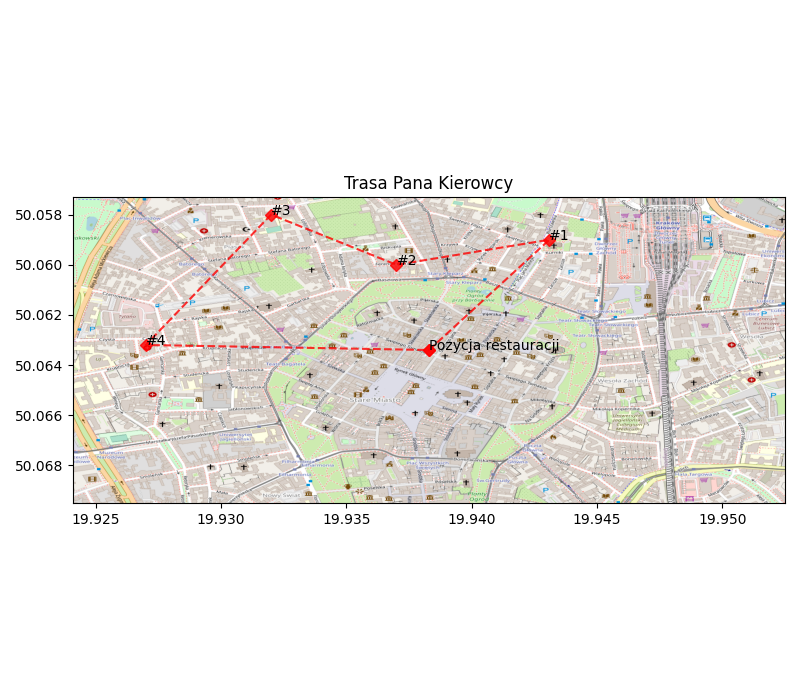
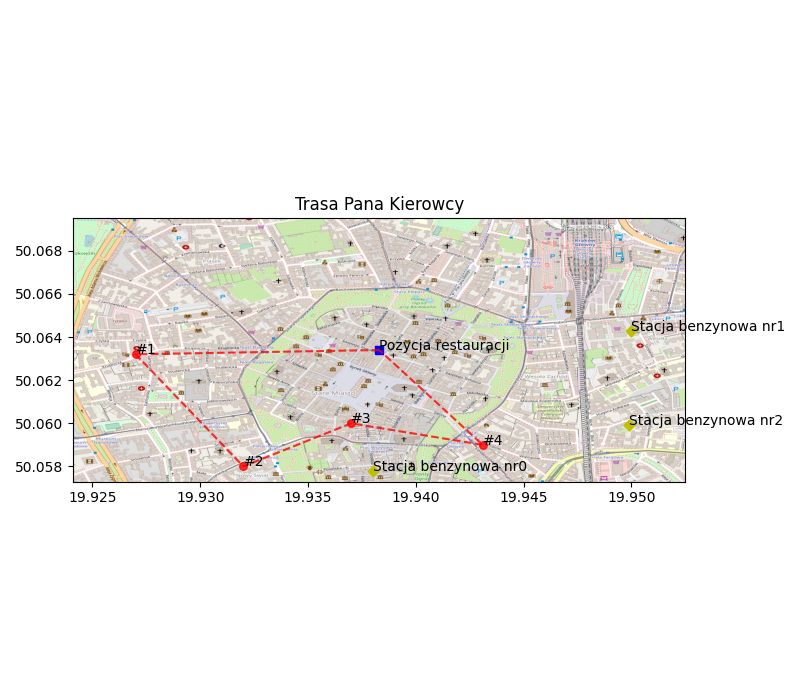
Optimized algorithm with Jacek's help

Changed region(s): [[0.0, 0.24, 1.0, 0.75]]

diff --git a/elements/solver.py b/elements/solver.py
@@ -14,8 +14,8 @@ class Solver:
         self.locations = locations
         self.resturant_location = resturant_location
         self.speed = []
-        self.fuel = 2.5
-        self.fuel_cons_per_100km = 9
+        self.fuel = 6
+        self.fuel_cons_per_100km = 20
         self.petrol_locations = petrol_locations
         self.gBest = []
         self.gBest_cost = 0
@@ -113,11 +113,11 @@ class Solver:
 
     def is_fuel_enough(self, particle):
         if particle:
-            particle_cost = self.calculate_part_cost(particle, self.locations)
+            particle_cost = self.calculate_part_cost(particle, self.locations)*111
             fuel_need = particle_cost / 100 * self.fuel_cons_per_100km
 
             route = particle
-            if fuel_need + 2 < self.fuel:
+            if fuel_need + 5 < self.fuel:
                 return len(particle)
 
             del route[-1]
@@ -132,25 +132,24 @@ class Solver:
         for i in range(len(self.gBest)):
             if i == 0:
                 if self.gBest[i] < 10:
-                    route += 1000 * self.route_between_points(self.resturant_location, self.locations[self.gBest[i] - 1])
+                    route += 1000 * 111  * self.route_between_points(self.resturant_location, self.locations[self.gBest[i] - 1])
                 else:
-                    route += 1000 * self.route_between_points(self.resturant_location, self.petrol_locations[self.gBest[i] - 10])
+                    route += 1000 * 111 * self.route_between_points(self.resturant_location, self.petrol_locations[self.gBest[i] - 10])
                 time = self.calculate_time(route)
-                delivery_time.append(time/60)
+                delivery_time.append(time/60 + (5 * i))
 
             else:
                 if self.gBest[i] >= 10:
-                    route += 1000 * self.route_between_points(self.locations[self.gBest[i-1] - 1], self.petrol_locations[self.gBest[i] - 10])
+                    route += 1000 * 111 * self.route_between_points(self.locations[self.gBest[i-1] - 1], self.petrol_locations[self.gBest[i] - 10])
                 elif self.gBest[i-1] >= 10:
-                    route += 1000 * self.route_between_points(self.petrol_locations[self.gBest[i - 1] - 10], self.locations[self.gBest[i] - 1])
+                    route += 1000 * 111 * self.route_between_points(self.petrol_locations[self.gBest[i - 1] - 10], self.locations[self.gBest[i] - 1])
                 else:
-                    route += 1000 * self.route_between_points(self.locations[self.gBest[i - 1] - 1], self.locations[self.gBest[i] - 1])
+                    route += 1000 * 111 * self.route_between_points(self.locations[self.gBest[i - 1] - 1], self.locations[self.gBest[i] - 1])
 
                 time = self.calculate_time(route)
 
-                delivery_time.append(time/60)
+                delivery_time.append(time/60 + (5 * i))
         return delivery_time
-
 
     def solve(self):
         list_of_particle = []
@@ -161,11 +160,11 @@ class Solver:
 
         self.gBest = 0
 
-        for i in range(self.num_swarm):                                     #   Losowanie stada i predkosci
-            list_of_particle.append(random.sample(range(1, l+1), k=l))
-            dict_of_vel[i] = [(random.sample(range(1, l+1), k=2))]
+        for i in range(self.num_swarm):  # Losowanie stada i predkosci
+            list_of_particle.append(random.sample(range(1, l + 1), k=l))
+            dict_of_vel[i] = [(random.sample(range(1, l + 1), k=2))]
 
-        list_of_pBest = copy.deepcopy(list_of_particle)                     #   Obliczanie kosztu dla wylosowanego stada
+        list_of_pBest = copy.deepcopy(list_of_particle)  # Obliczanie kosztu dla wylosowanego stada
         lst_of_pBest_cost = self.calculate_full_cost(
             list_of_pBest, self.locations)
         self.gBest_cost = min(lst_of_pBest_cost)
@@ -174,16 +173,17 @@ class Solver:
 
         for i in range(self.num_iterations):
             for it in range(self.num_swarm):
-                diff1 = self.diff(list_of_particle[it], list_of_pBest[it])  #   Wyznaczanie różnic: cząsteczka - pBest [x(i) - pBest]
-                diff2 = self.diff(list_of_particle[it], self.gBest)         #                       cząsteczka - gBest [x(i) - gBest]
+                diff1 = self.diff(list_of_particle[it],
+                                  list_of_pBest[it])  # Wyznaczanie różnic: cząsteczka - pBest [x(i) - pBest]
+                diff2 = self.diff(list_of_particle[it], self.gBest)  # cząsteczka - gBest [x(i) - gBest]
                 self.check_diff(diff1, dict_of_vel[it])
                 self.check_diff(diff2, dict_of_vel[it])
                 for el in range(len(dict_of_vel[it])):
-                    if dict_of_vel[it][el]:                         #   Zastosowanie predkosci dla stada
+                    if dict_of_vel[it][el]:  # Zastosowanie predkosci dla stada
                         list_of_particle[it] = self.swap(
-                                            list_of_particle[it], dict_of_vel[it][el][0], dict_of_vel[it][el][1])
+                            list_of_particle[it], dict_of_vel[it][el][0], dict_of_vel[it][el][1])
             costs = self.calculate_full_cost(list_of_particle, self.locations)
-            for it in range(self.num_swarm):                        #   Aktualizowanie pBest oraz gBest
+            for it in range(self.num_swarm):  # Aktualizowanie pBest oraz gBest
                 if costs[it] < lst_of_pBest_cost[it]:
                     list_of_pBest[it] = list_of_particle[it]
                     lst_of_pBest_cost[it] = costs[it]
@@ -198,15 +198,13 @@ class Solver:
             for i in range(fuel_enough + 1):
                 for p in range(len(self.petrol_locations)):
                     route = copy.copy(self.gBest)
-                    route.insert(i, p+10)
+                    route.insert(i, p + 10)
                     cost = self.calculate_part_cost(route, self.locations, self.petrol_locations)
                     if current_cost == np.inf or cost < current_cost:
                         current_cost = cost
                         best = route
             self.gBest = best
-            self.gBest_cost = current_cost
-
-
+            self.gBest_cost = current_cost * 111
 
         del_time = self.count_time()
         print(del_time)

diff --git a/ipds-pso.py b/ipds-pso.py
@@ -9,6 +9,7 @@ import os
 
 
 def main():
+
     lst_of_points = [[19.9320, 50.0580],
                      [19.9431, 50.0590], [19.9270, 50.0632],
                      [19.9370, 50.0600]]
@@ -16,75 +17,12 @@ def main():
     petrol_loactions = [[19.9380, 50.0578], [19.9500, 50.0643], [19.9499, 50.0599]]
     s = Solver(100, 100, lst_of_points, restaurant_loc, petrol_loactions)
     s.solve()
-    #print(s.gBest)
-    #print(s.gBest_cost)
+    print(s.gBest)
+    print(s.gBest_cost * 111)
     right_order = s.gBest
     graph = Graph()
-    longitudes , latitudes = graph.upgrade_points(restaurant_loc=restaurant_loc, right_order=right_order, lst_of_points=lst_of_points)
-    graph.show_graph(longitudes=longitudes, latitudes=latitudes)
-    '''
-    maps_directory = "./maps"
-    f = open(os.path.join(maps_directory, 'uno_coor.txt'), "r")
-    splitted = f.read().split(' ')
-    dct = {}
-    for elem in range(0,len(splitted)-1,2):
-        dct[splitted[elem]] = float(splitted[elem+1])
-    bbox = []
-    for value in dct.values():
-        bbox.append(value)
-
-    ordered_points = []
-    for order in s.gBest:
-        if order == s.gBest[0]:
-            ordered_points.append(restaurant_loc)
-        for index, point in enumerate(lst_of_points):
-            if order == (index + 1):
-                ordered_points.append(point)
-                if order == s.gBest[-1]:
-                    ordered_points.append(restaurant_loc)
-
-    longitudes = []
-    latitudes = []
-    for coor in ordered_points:
-        longitudes.append(coor[0])
-        latitudes.append(coor[1])
-
-
-# plotowanie
-    map = plt.imread(os.path.join(maps_directory, 'uno.png'))
-    fig, ax = plt.subplots(figsize = (8,7))
-    #ax.scatter(longitudes,latitudes, zorder = 1, alpha = 0.8, c='r', s=10)
-    #ax.scatter(petrol_longitudes, petrol_latitudes, zorder=1, alpha=1, c='y', s=30, marker = 'D')
-    #ax.scatter(restaurant_loc[0], restaurant_loc[1], zorder = 1, alpha = 1, c='b', s=30, marker = 's')
-    ax.plot(longitudes,latitudes, zorder = 1, alpha = 0.8, ls = '--', c = 'r', marker = 'D')
-    for i in range(len(longitudes)-1):
-        if i == 0:
-            ax.annotate('Pozycja restauracji', xy=(longitudes[i], latitudes[i]))
-        else:
-            ax.annotate(f'#{i}', xy=(longitudes[i], latitudes[i]))
-
-    ax.set_title('Trasa Pana Kierowcy')
-    ax.set_xlim(bbox[0], bbox[1])
-    ax.set_ylim(bbox[2], bbox[3])
-
-    ax.imshow(map, zorder = 0, extent=bbox, aspect='equal')
-    plt.show()
-    '''
-    # time = []
-    # speed = []
-    # vel = 60/3600
-    # time = np.linspace(0, 2400, 24000)
-    # speed = np.abs(np.sin(0.05*time)) * vel
-    # print(speed)
-    # plt.plot(time, speed)
-    # plt.show()
-    #
-    # route = 5  # km
-    # del_pos = integrate.cumtrapz(speed, time, initial=0)
-    # t = np.interp(2, del_pos, time)
-    # print(t)
-    # plt.plot(time, del_pos)
-    # plt.show()
+    longitudes , latitudes = graph.upgrade_points(restaurant_loc=restaurant_loc, right_order=right_order, lst_of_points=lst_of_points, petrol_loactions=petrol_loactions)
+    graph.show_graph(longitudes=longitudes, latitudes=latitudes, petrol_locations=petrol_loactions, restaurant_loc=restaurant_loc, lst_of_points=lst_of_points)
 
 if __name__ == "__main__":
     main()

diff --git a/elements/graph.py b/elements/graph.py
@@ -15,16 +15,15 @@ class Graph:
         for value in self.dct.values():
             self.bbox.append(value)
 
-    def upgrade_points(self, restaurant_loc, right_order, lst_of_points):
+    def upgrade_points(self, restaurant_loc, right_order, lst_of_points, petrol_loactions):
         ordered_points = []
         for order in right_order:
-            if order == right_order[0]:
-                ordered_points.append(restaurant_loc)
-            for index, point in enumerate(lst_of_points):
-                if order == (index + 1):
-                    ordered_points.append(point)
-                    if order == right_order[-1]:
-                        ordered_points.append(restaurant_loc)
+            if order >= 10:
+                ordered_points.append(petrol_loactions[order - 10])
+            else:
+                ordered_points.append(lst_of_points[order - 1])
+        ordered_points.append(restaurant_loc)
+        ordered_points.insert(0, restaurant_loc)
 
         longitudes = []
         latitudes = []
@@ -34,13 +33,23 @@ class Graph:
 
         return longitudes, latitudes
 
-    def show_graph(self, longitudes, latitudes):
+    def show_graph(self, longitudes, latitudes, petrol_locations, restaurant_loc, lst_of_points):
         map = plt.imread(os.path.join(self.maps_directory, 'uno.png'))
         fig, ax = plt.subplots(figsize=(8, 7))
-        # ax.scatter(longitudes,latitudes, zorder = 1, alpha = 0.8, c='r', s=10)
-        # ax.scatter(petrol_longitudes, petrol_latitudes, zorder=1, alpha=1, c='y', s=30, marker = 'D')
-        # ax.scatter(restaurant_loc[0], restaurant_loc[1], zorder = 1, alpha = 1, c='b', s=30, marker = 's')
-        ax.plot(longitudes, latitudes, zorder=1, alpha=0.8, ls='--', c='r', marker='D')
+        petrol_long = []
+        petrol_lat = []
+        points_long = []
+        points_lat = []
+        for i in lst_of_points:
+            points_long.append(i[0])
+            points_lat.append(i[1])
+
+        for i in petrol_locations:
+            petrol_long.append(i[0])
+            petrol_lat.append(i[1])
+
+
+        ax.plot(longitudes, latitudes, zorder=1, alpha=0.8, ls='--', c='r')
         for i in range(len(longitudes) - 1):
             if i == 0:
                 ax.annotate('Pozycja restauracji', xy=(longitudes[i], latitudes[i]))
@@ -51,10 +60,12 @@ class Graph:
         ax.set_xlim(self.bbox[0], self.bbox[1])
         ax.set_ylim(self.bbox[2], self.bbox[3])
 
+        ax.scatter(petrol_long, petrol_lat, zorder=1, alpha=1, c='y', s=30, marker='D')
+        ax.scatter(points_long, points_lat, zorder=1, alpha=0.8, c='r', s=30, marker = 'o')
+        ax.scatter(restaurant_loc[0], restaurant_loc[1], zorder = 1, alpha = 1, c='b', s=30, marker = 's')
+        for i in range(len(petrol_long)):
+            ax.annotate(f'Stacja benzynowa nr{i}', xy=(petrol_long[i], petrol_lat[i]))
+
         ax.imshow(map, zorder=0, extent=self.bbox, aspect='equal')
         plt.show()
         fig.savefig(os.path.join(self.trace_directory, 'trace1.png'))
-
-
-    def get_cost_matrix(self):
-        pass
